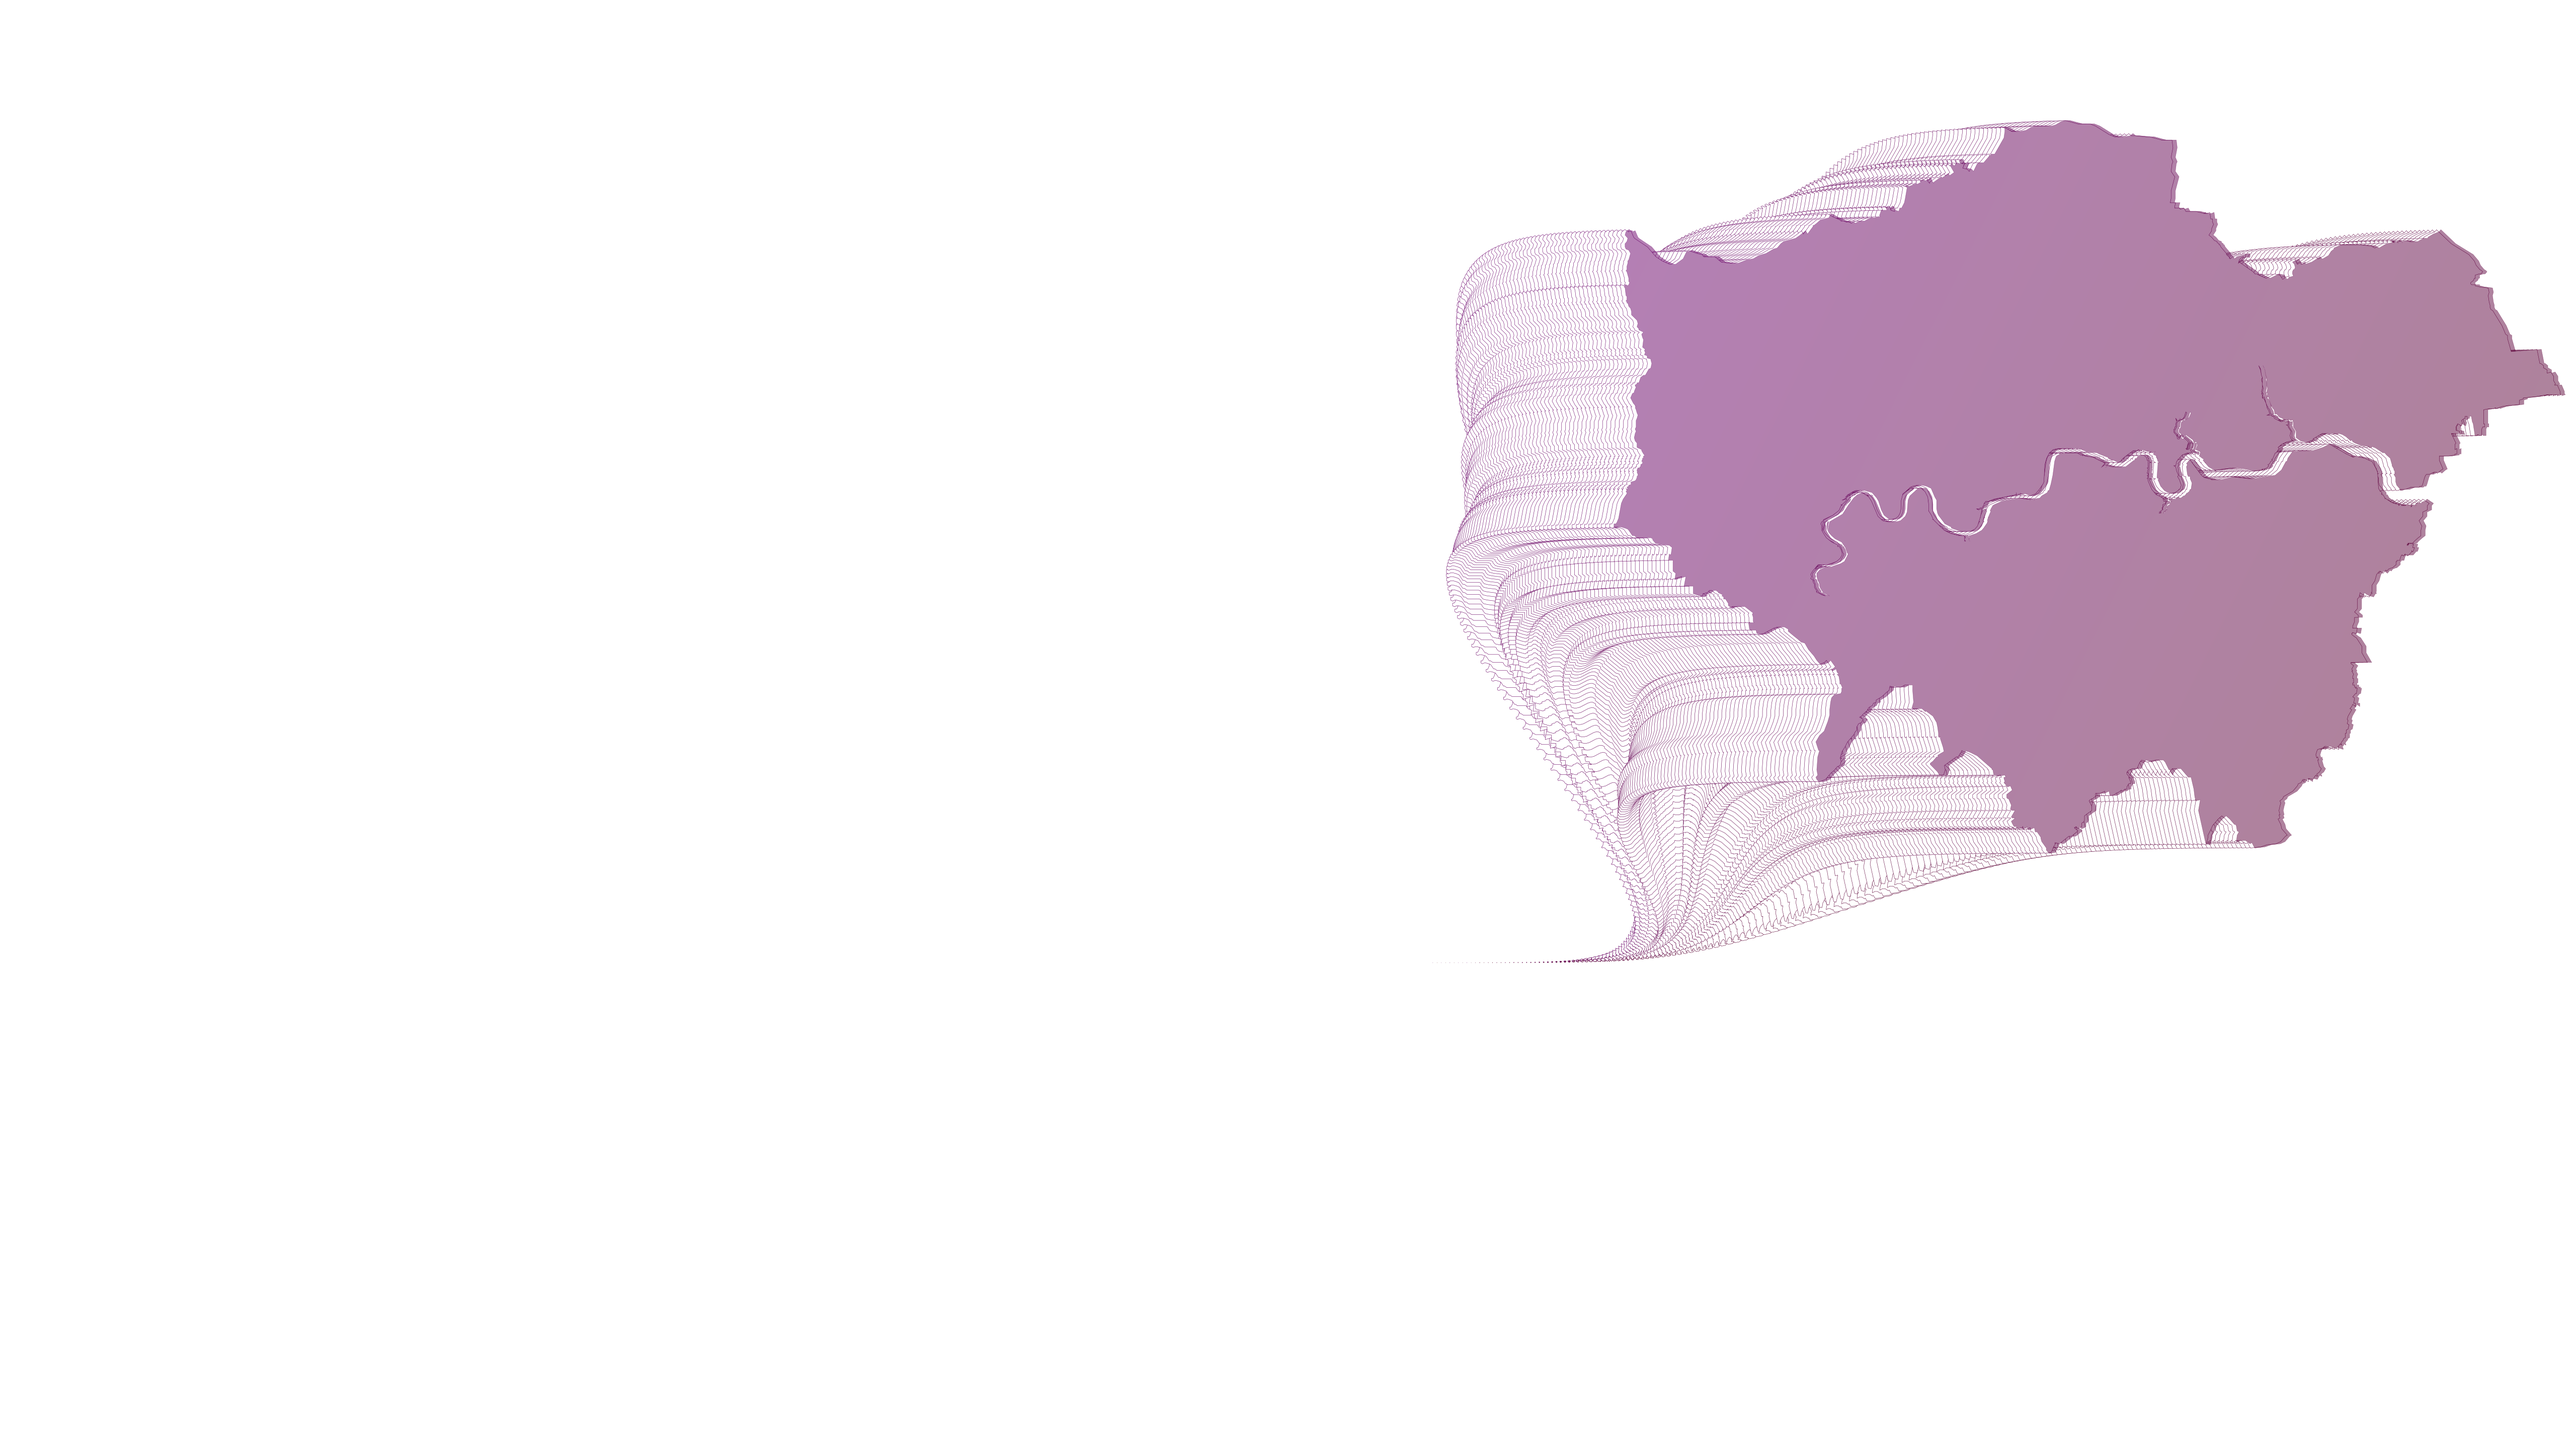
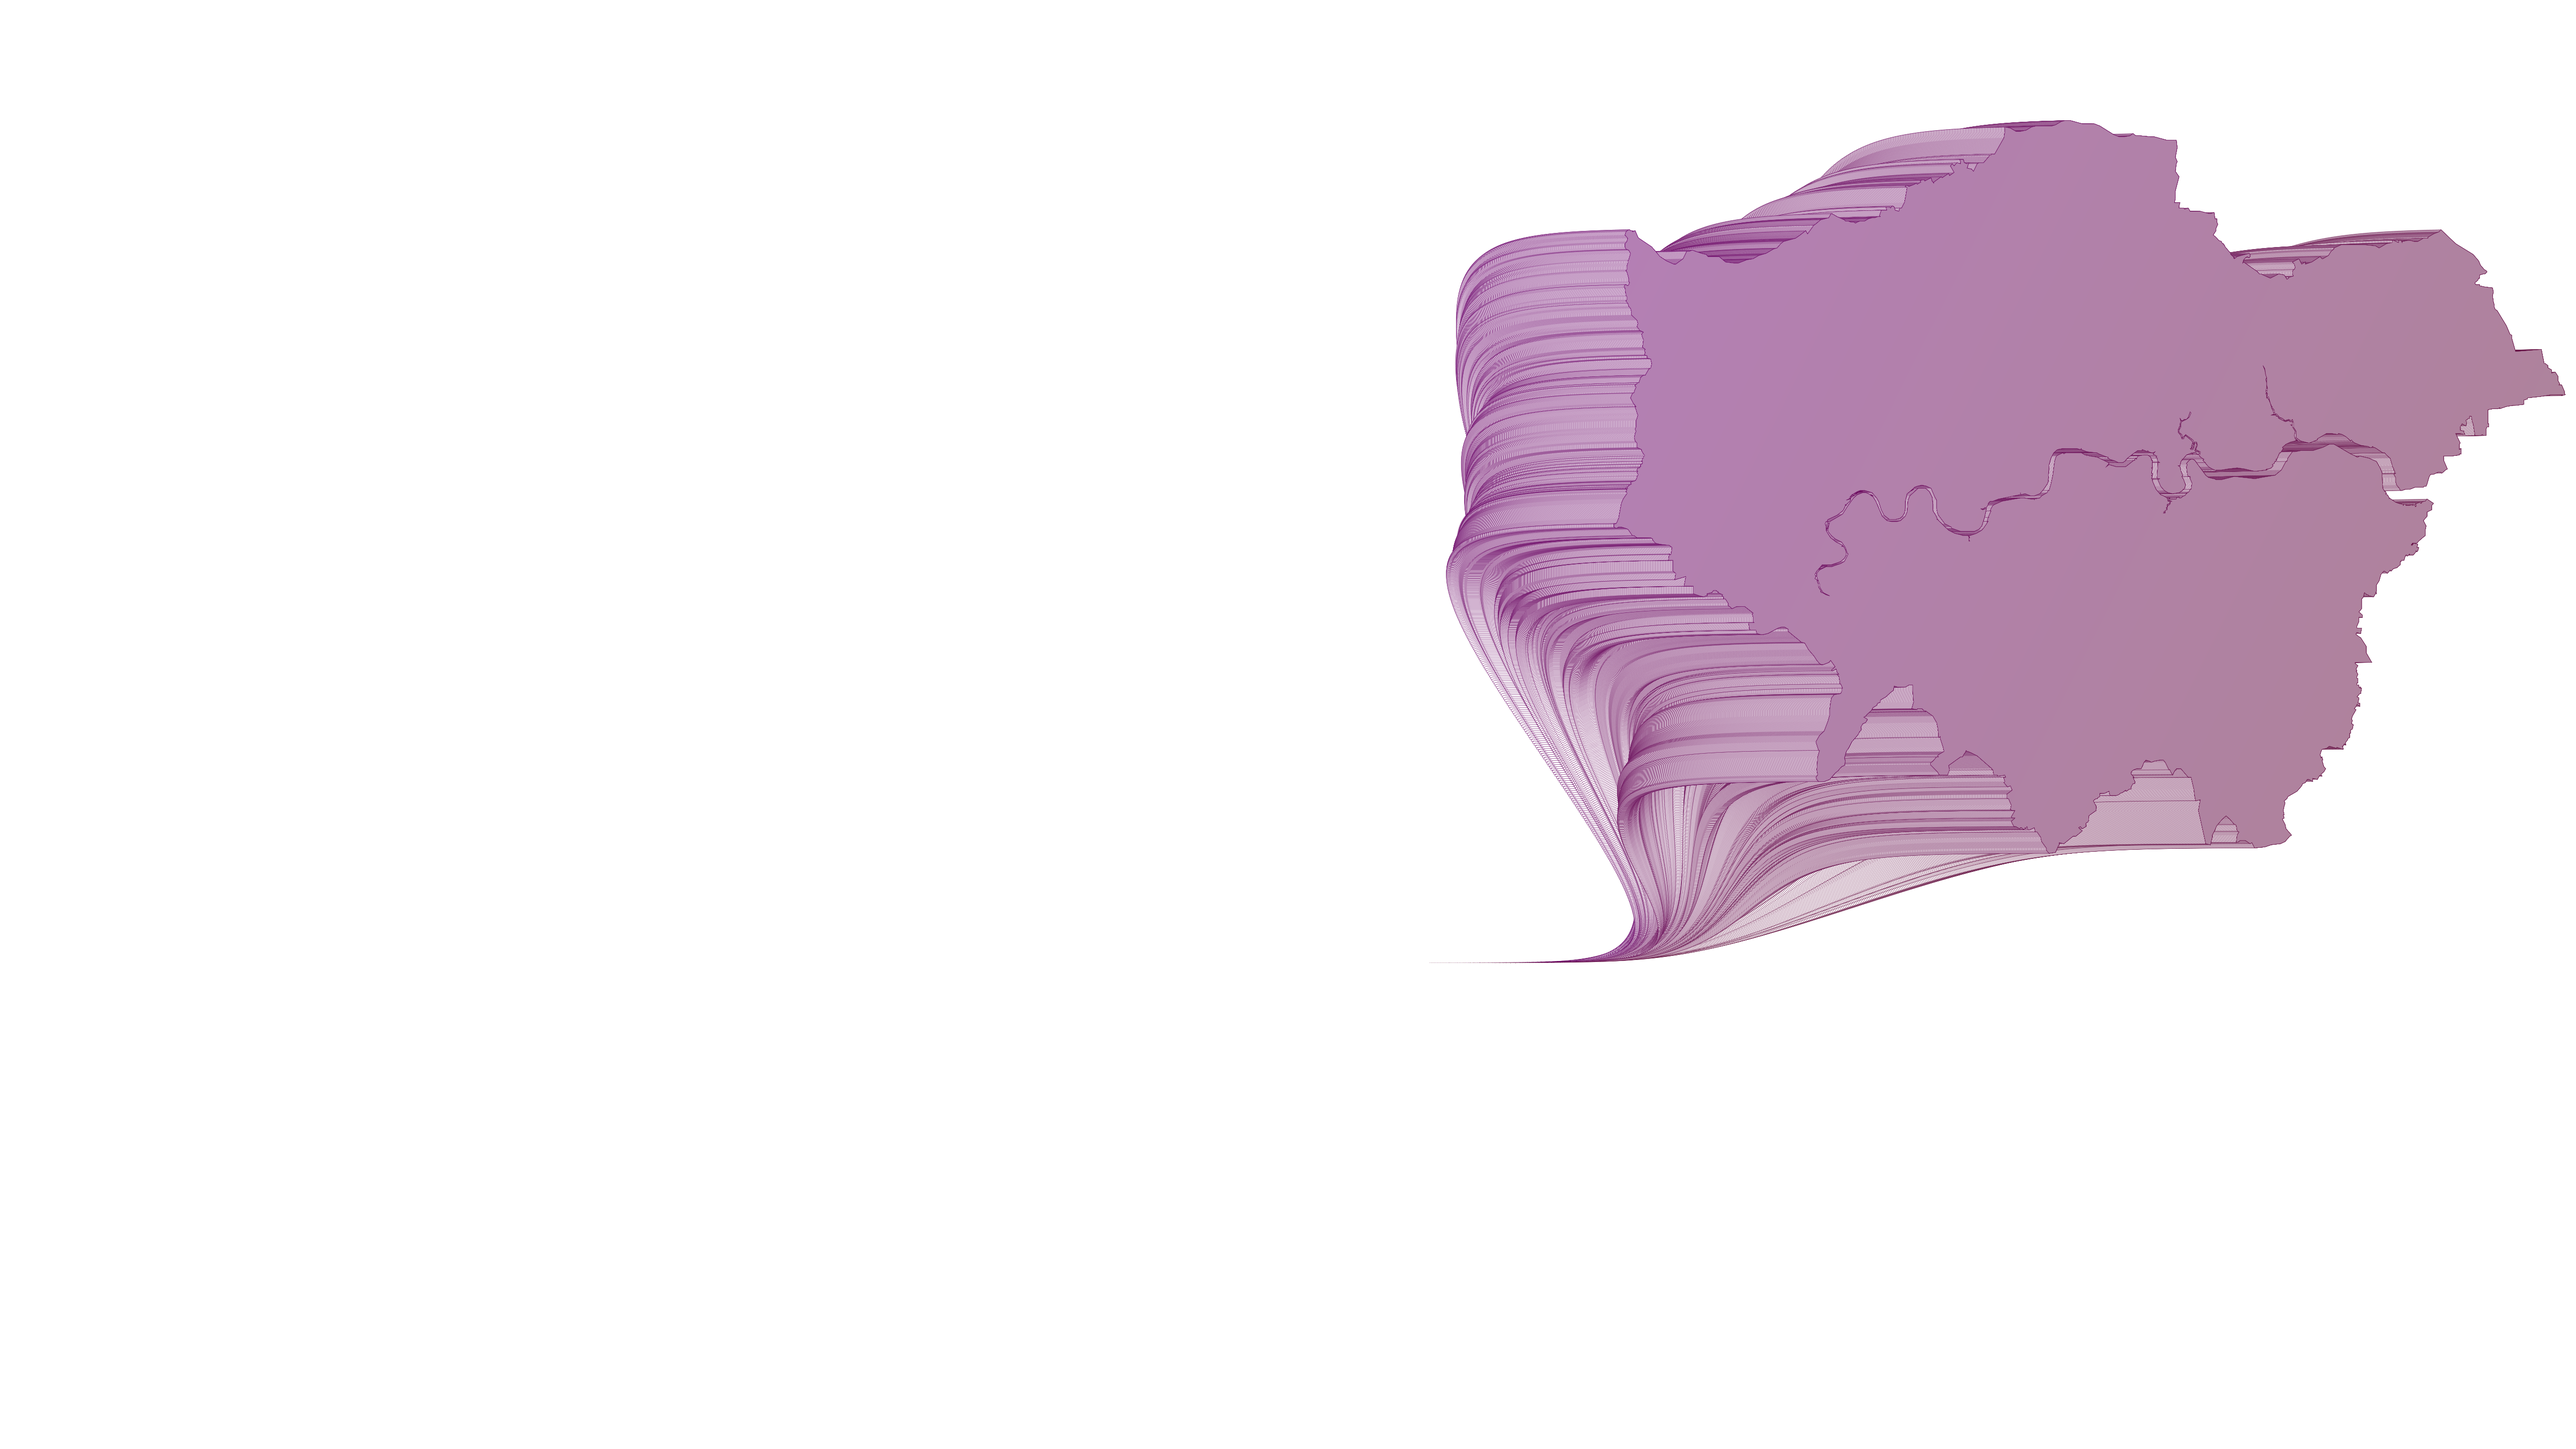
changes during video production

diff --git a/index.js b/index.js
@@ -29,9 +29,9 @@ const { variantColors } = require('./colors');
     // get the colors
     const { color1, color2 } = variantColors.find(d => d.variant === variant);
 
-    if (variant === 'B') {
-      plotMarks(ctx, xScale, yScale, config.dateLabels);
-    }
+    // if (variant === 'B') {
+    //   plotMarks(ctx, xScale, yScale, config.dateLabels);
+    // }
 
     plotFlow(ctx,
              data.filter(d => d.variant === variant),

diff --git a/config.js b/config.js
@@ -12,7 +12,7 @@ module.exports = {
   lastFillColor: '#333333',
   lineWidth: 0.6,
   alpha: 1.0,
-  iterations: 1,
+  iterations: 5,
   dateLabels: [
     new Date(2020, 2, 1),
     new Date(2020, 7, 1),
